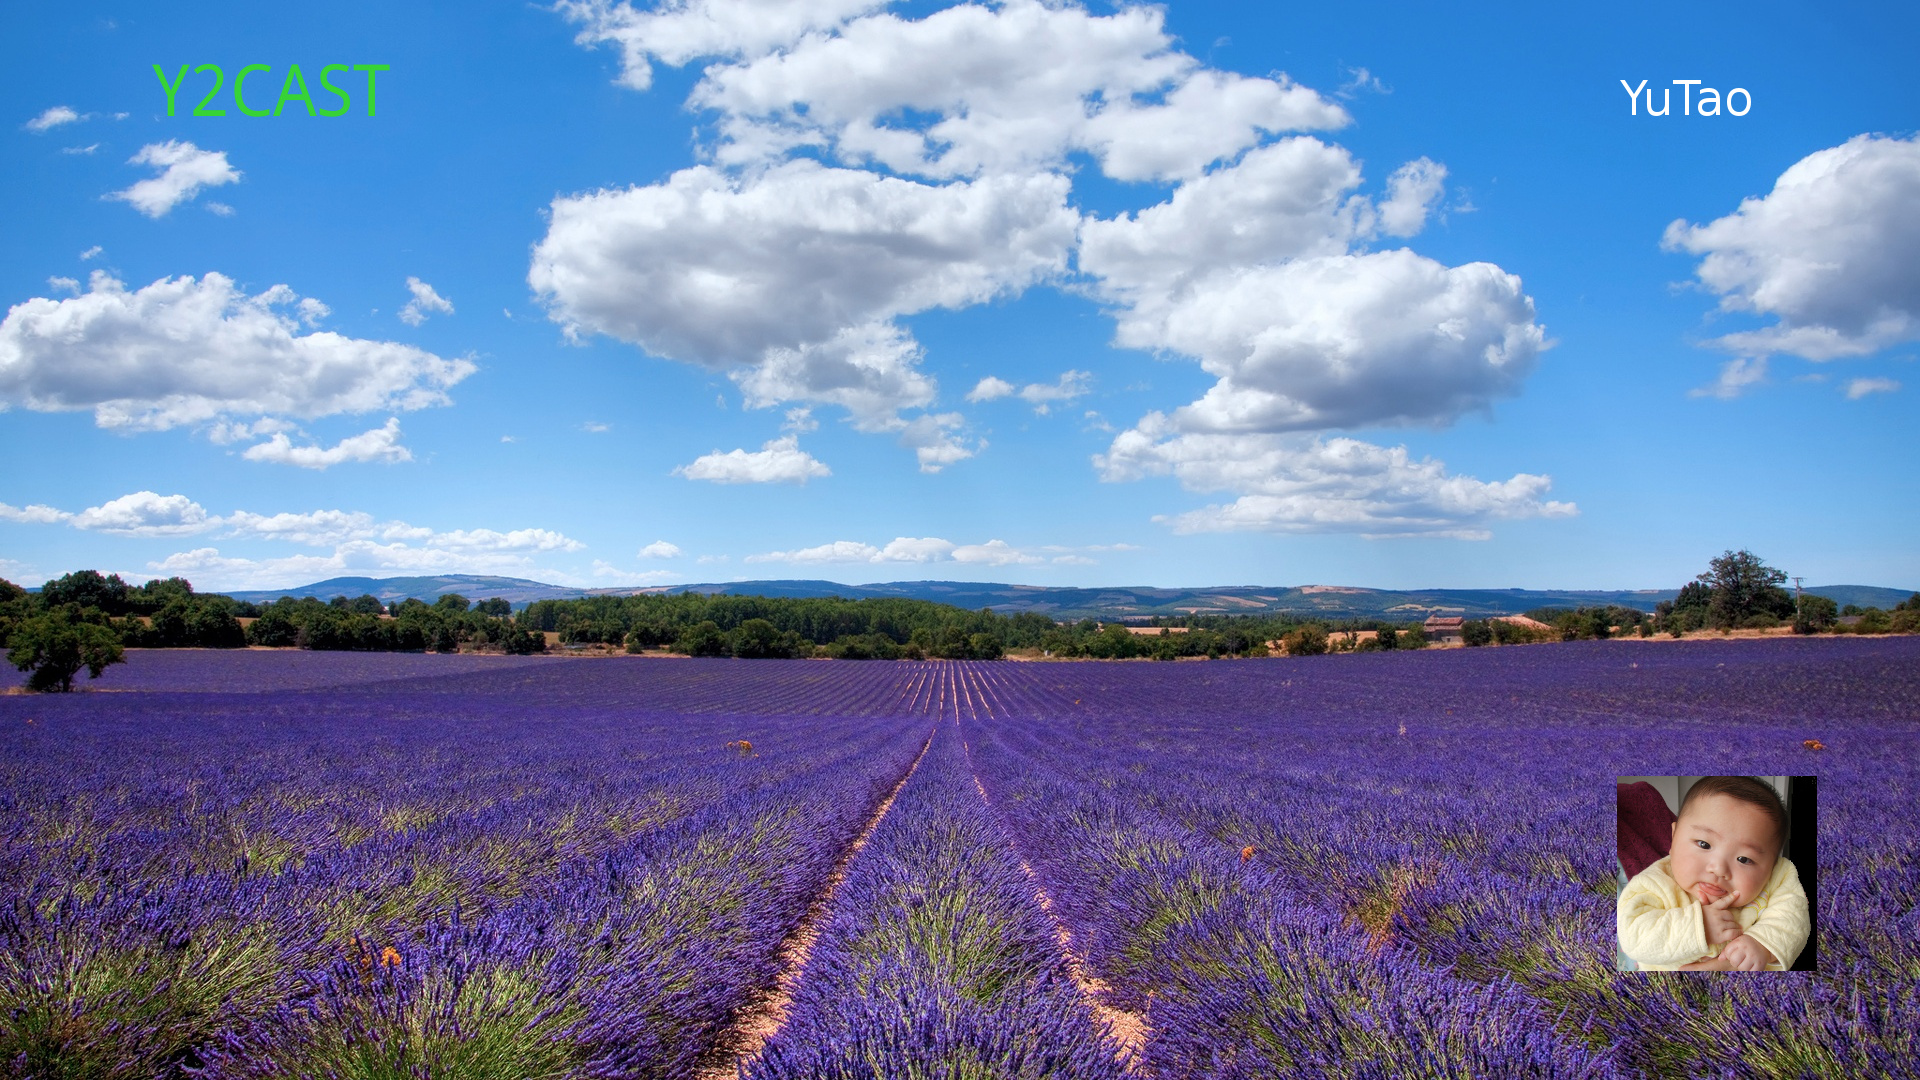
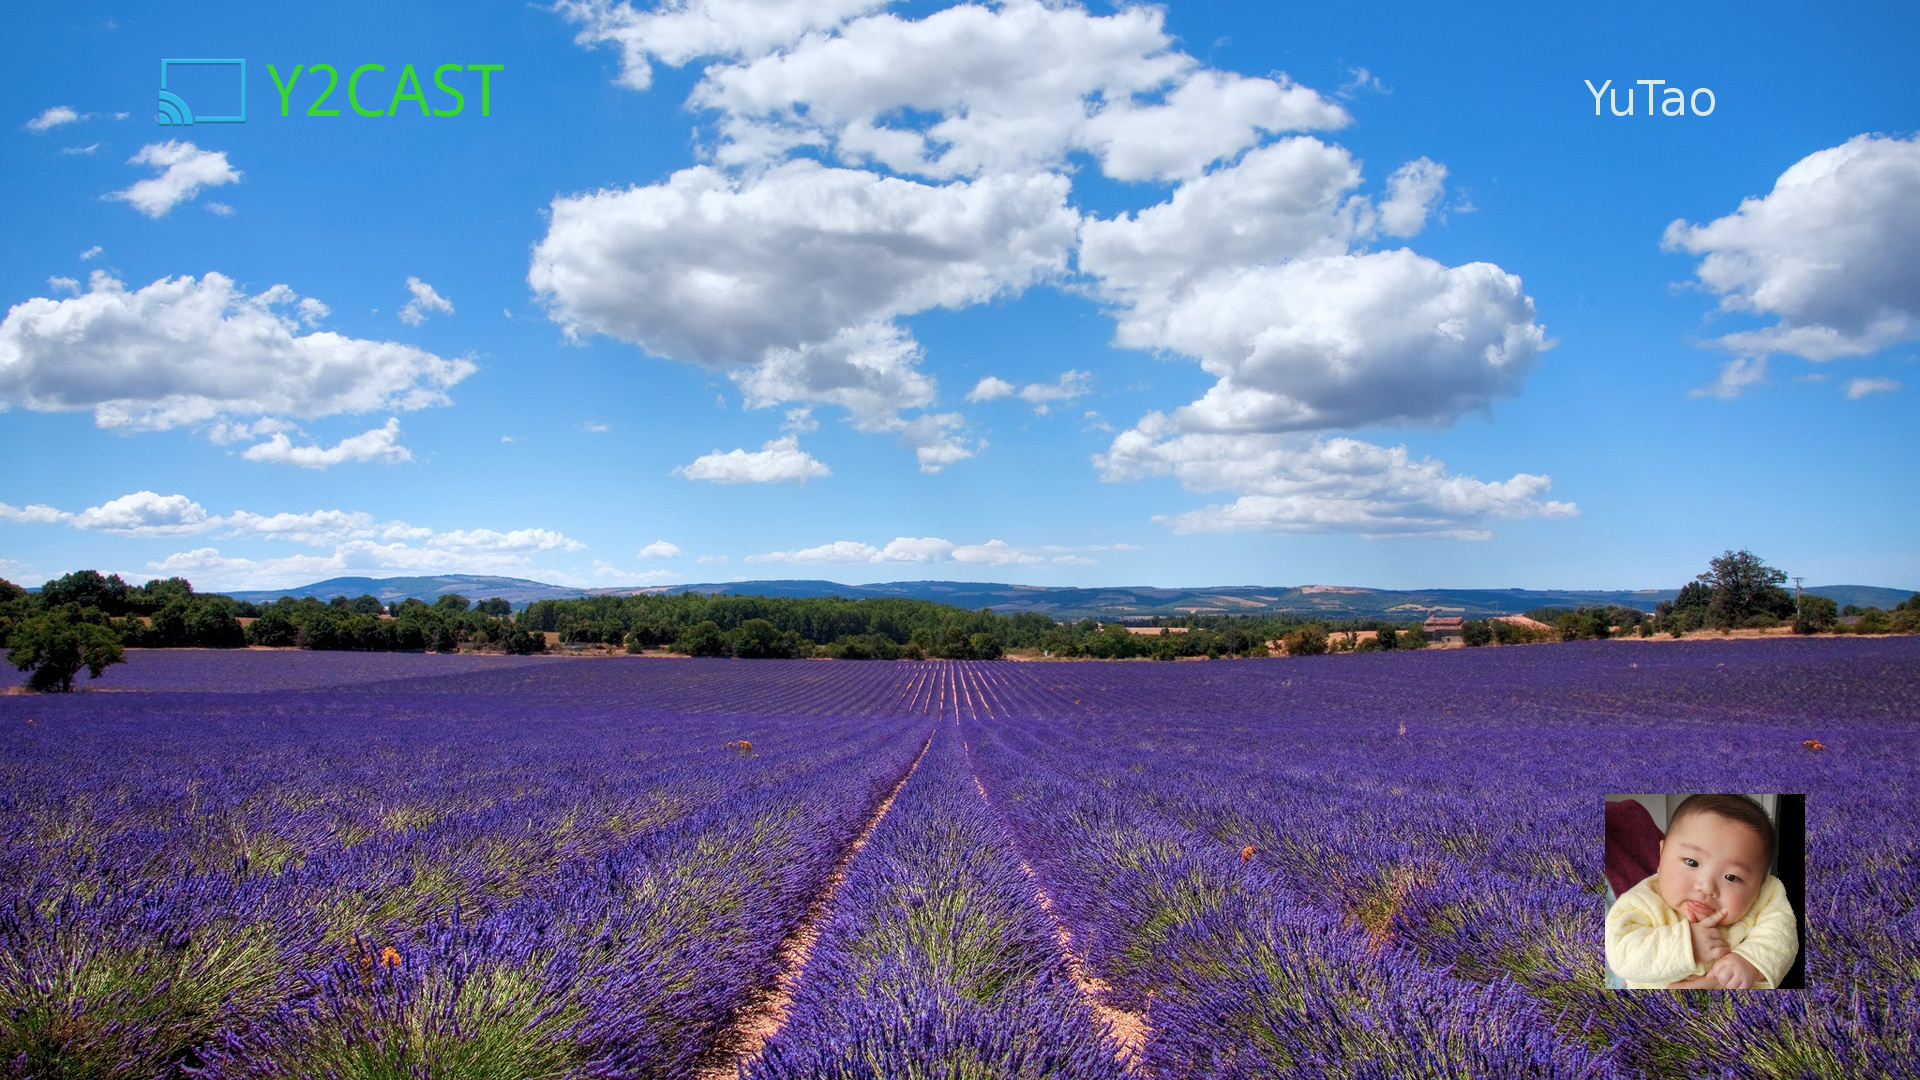
change the width/height to 100%, so that will will be center.
@Description/root cause - Why
video will be center with right aspect ratio.
then I need to add the border my self, so I get code for read frame for the
background, it is cool.

@Resolution - How
1. xml
change width/height to 100%.
add div.
add get of pixel for parts of video, then set the border of video.
refer link for full screen:
https://github.com/googlecast/Cast-Simple-Receiver
2. bg image
add logo, refine icon pos.

@Reviewer
NONE

@Tickets
NONE

Changed region(s): [[0.8125, 0.7028, 0.9688, 0.9167], [0.0625, 0.0306, 0.2812, 0.1222], [0.8125, 0.0611, 0.9062, 0.1222]]

diff --git a/url/custom_rcvr/myreceiver.html b/url/custom_rcvr/myreceiver.html
@@ -3,36 +3,104 @@
   <title>Example minimum receiver</title>
   <script src="//www.gstatic.com/cast/sdk/libs/receiver/2.0.0/cast_receiver.js"></script>
     <style>
-        body {
-            overflow:hidden;
-            background-size:100% 100%;
+      body {
+        font-family: Verdana, Geneva, sans-serif;
+        color: #444;
+        line-height: 150%;
+        border: 0px;
+        margin: 0px;
+        width: 100%;
+        height: 100%;
+        overflow: hidden !important;
+      }
+      video {
+        width: 100%;
+        height: 100%;
+        margin: auto auto;
+        overflow: hidden !important;
+      }
+      #ambience {
+        transition-property: all;
+        transition-duration: 1s;
+        transition-timing-function: linear;
+        -moz-transition-property: all;
+        -moz-transition-duration: 1s;
+        -moz-transition-timing-function: linear;
+        -webkit-transition-property: all;
+        -webkit-transition-duration: 1s;
+        -webkit-transition-timing-function: linear;
+        -o-transition-property: all;
+        -o-transition-duration: 1s;
+        -o-transition-timing-function: linear;
+        outline: black solid 0px;
         }
-        video {
-            height:720;
-            width:1280;
-            object-fit:cover;
-            text-align: center;
-            border:0px solid silver;
-            display: table-cell;
-            vertical-align: middle;
-            color: #FFFFFF;
-            font-weight: bold;
-            font-family: Verdana, Geneva, sans-serif;
-            font-size:40px;
-            float:left;
-            z-index: 1;
-            position:absolute;
-        }
+      canvas {
+        width:100%;
+        height:100%;
+        display: none;
+      }
     </style>
 </head>
 <body background="images/home_lavender.jpg">
-  <video id='media'/>
+    <div id="ambience">
+      <video id='media'/>
+    </div>
+    <canvas id="scratch"></canvas>
   <script>
     window.onload = function() {
+      initCanvas();
       window.mediaElement = document.getElementById('media');
       window.mediaManager = new cast.receiver.MediaManager(window.mediaElement);
       window.castReceiverManager = cast.receiver.CastReceiverManager.getInstance();
       window.castReceiverManager.start();
+    }
+    var sctxt, video, ambience;
+    function initCanvas() {
+      ambience = document.getElementById("ambience");
+      video = document.getElementsByTagName("video")[0];
+      scratch = document.getElementById("scratch");
+      sctxt = scratch.getContext("2d");
+      video.addEventListener("play", paintAmbience, false);
+      video.addEventListener("loadedmetadata", paintAmbience, false);
+    }
+
+    function paintAmbience() {
+      if (video.loadedmetadata) {
+        ambience.style.backgroundColor = 'rgba(255, 255, 255, 255)';
+        return;
+      }
+      if (video.ended) {
+        ambience.style.backgroundColor = 'rgba(255, 255, 255, 0)';
+        return;
+      }
+      // set up scratch frame
+      sctxt.drawImage(video, 0, 0, 320, 160);
+      frame = sctxt.getImageData(0, 0, 320, 160);
+      // get average color for frame and transition to it
+      color = getColorAvg(frame);
+      ambience.style.backgroundColor = 'rgb('+color[0]+','+color[1]+','+color[2]+')';
+      if (video.paused) {
+        return;
+      }
+      // don't do it more often than once a second
+      setTimeout(function () {
+          paintAmbience();
+      }, 1000);
+    }
+    function getColorAvg(frame) {
+      r = 0;
+      g = 0;
+      b = 0;
+      // calculate average color from image in canvas
+      for (var i = 0; i < frame.data.length; i += 4) {
+        r += frame.data[i];
+        g += frame.data[i + 1];
+        b += frame.data[i + 2];
+      }
+      r = Math.ceil(r / (frame.data.length / 4));
+      g = Math.ceil(g / (frame.data.length / 4));
+      b = Math.ceil(b / (frame.data.length / 4));
+      return Array(r, g, b);
     }
   </script>
 </body>
